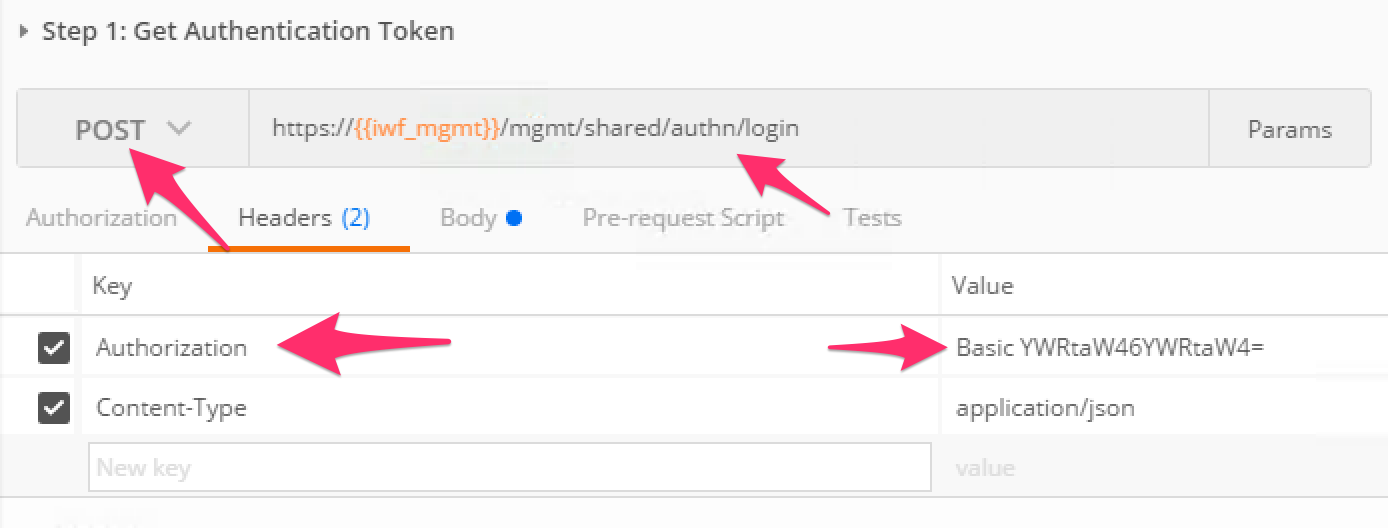
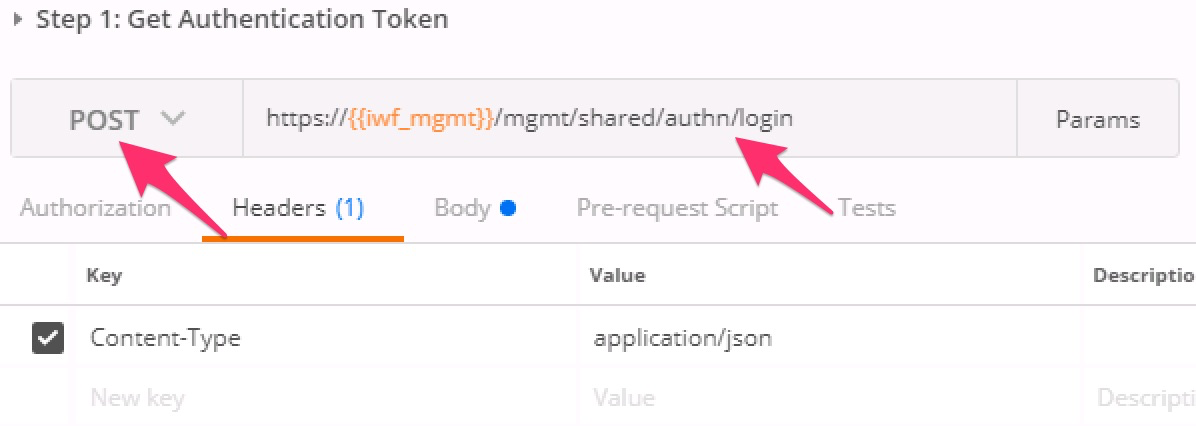
Minor updates to modules 2-5
Lab 2.1, task 1, step 2
Lab 3.1, task 1, intro
Lab 3.2, task 3, step 1 & 5
Lab 3.3, intro
Lab 4.1, intro
Lab 4.2, task 1, step 8
Lab 4.2, task 2 step 3
Lab 4.3, intro
Lab 5.3, task 1, step 1
Lab 5.6, task 1, step 1

diff --git a/docs/class1/module4/lab3.rst b/docs/class1/module4/lab3.rst
@@ -8,7 +8,7 @@
 Lab |labmodule|\.\ |labnum| – f5-newman-wrapper Introduction
 ------------------------------------------------------------
 
-As shown in the previous lab we can use manually execute collections and folders
+As shown in the previous lab we can manually execute collections and folders
 using the Postman GUI to achieve some end result on BIG-IP devices.  While this
 capability is important in a test/prototyping phase we need to ensure we can
 execute these manual steps as an automated process.
@@ -24,7 +24,7 @@ JSON formatted input file.  In this lab we will introduce the file format.
 Task 1 - Explore the workflow JSON format
 ^^^^^^^^^^^^^^^^^^^^^^^^^^^^^^^^^^^^^^^^^
 
-To introduce the format of the workflow file we will use an example that 
+To introduce the format of the workflow file we will use an example that
 recreates the simple workflow we executed manually in the previous lab.  We
 will explore the file in sections followed by showing the whole file.
 
@@ -67,7 +67,7 @@ attrbutes are explained in the table below.
     * - **Attribute**
       - **Description**
     * - ``globalEnvVars``
-      - This is the file that contains the Global environment variables used 
+      - This is the file that contains the Global environment variables used
         by Newman.  This file is generated by the f5-postman-workflows build
         scripts and contains the same global variables as we saw in the previous
         lab that installed the framework into the Postman GUI client
@@ -89,9 +89,9 @@ attrbutes are explained in the table below.
 Define Input Variables
 ~~~~~~~~~~~~~~~~~~~~~~
 
-This section specifies the Input Variables for the workflow.  The name 
-``globalVars`` conveys that the variables defined here will be present for 
-each request in the defined workflow (the global scope from a workflow 
+This section specifies the Input Variables for the workflow.  The name
+``globalVars`` conveys that the variables defined here will be present for
+each request in the defined workflow (the global scope from a workflow
 perspective).  Variables can also be defined within each item in a workflow
 (the local scope from a item perspective).  In the case of a global and local
 variable that is named identically, the local scope variable will take
@@ -113,7 +113,7 @@ precendence.
 Define the Workflow Collections and Ordering
 ~~~~~~~~~~~~~~~~~~~~~~~~~~~~~~~~~~~~~~~~~~~~
 
-This section defines the workflow and collections and folders that it is 
+This section defines the workflow and collections and folders that it is
 comprised of.  The ``workflow`` attribute is an ordered array that contains
 objects defining each collecion and folder to run.
 
@@ -152,9 +152,9 @@ Lets look at the item in the workflow that performs authentication:
                            }
                    }
 
-The ``name`` attribute specifies the name for this item.  The ``options`` 
+The ``name`` attribute specifies the name for this item.  The ``options``
 object specifies the parameters used to execute this particular item.  In our
-case the ``collection`` attribute refers to the file containing the 
+case the ``collection`` attribute refers to the file containing the
 ``BIGIP_API_Authentication`` collection.  The ``folder`` attribute specifies
 the name of the folder to run in the collection.
 
@@ -202,5 +202,3 @@ Final Workflow JSON
                    }
            ]
    }
-
-

diff --git a/docs/class1/module3/lab3.rst b/docs/class1/module3/lab3.rst
@@ -9,7 +9,7 @@ Lab |labmodule|\.\ |labnum| – Connect to f5-super-netops-container
 ------------------------------------------------------------------
 
 In the previous lab we started the container image and were presented with a
-root command prompt.  In order to support use the container and it's associated
+root command prompt.  In order to support use the container and its associated
 tools properly you connect via SSH and/or HTTP.
 
 .. _lab3_3_1:
@@ -17,8 +17,8 @@ tools properly you connect via SSH and/or HTTP.
 Task 1 – Connect via SSH
 ~~~~~~~~~~~~~~~~~~~~~~~~
 
-To connect to the image via SSH we must use the published port specified in the 
-``docker run`` command.  To review the command used to start the container was:
+To connect to the image via SSH we must use the published port specified in the
+``docker run`` command.  To review, the command used to start the container was:
 
 ``docker run -p 8080:80 -p 2222:22 -it f5devcentral/f5-super-netops-container:base``
 
@@ -30,7 +30,7 @@ Docker host.  In the case of the SSH service the following mapping applies:
 .. NOTE:: If you are using an F5 provided lab environment please use the SSH
    client and connect to the 'f5-super-netops-container SSH' item
 
-Additionally the container includes the ``snops`` user with a password of 
+Additionally the container includes the ``snops`` user with a password of
 ``default``.  To connect to the container execute the following command
 or it's OS-specific equivalent:
 
@@ -55,7 +55,7 @@ Example output:
 
    $ ssh -p 2222 snops@localhost
    Warning: Permanently added '[localhost]:2222' (ECDSA) to the list of known hosts.
-   snops@localhost's password: 
+   snops@localhost's password:
                                    .----------.
                                   /          /
                                  /   ______.'
@@ -75,40 +75,40 @@ Example output:
    |___/\__,_| .__/ \___|_|           |_| |_|\___|\__\___/| .__/|___/
              | |                                          | |
              |_|                                          |_|
-   
+
    Welcome to the f5-super-netops-container.  This image has the following
    services running:
-   
+
     SSH  tcp/22
     HTTP tcp/80
-   
+
    To access these services you may need to remap ports on your host to the
    local container using the command:
-   
+
     docker run -p 8080:80 -p 2222:22 -it f5devcentral/f5-super-netops-container:base
-   
+
    From the HOST perspective, this results in:
-   
+
     localhost:2222 -> f5-super-netops-container:22
     localho   st:8080 -> f5-super-netops-container:80
-   
+
    You can then connect using the following:
-   
+
     HTTP: http://localhost:8080
     SSH:  ssh -p 2222 snops@localhost
-   
+
    Default Credentials:
-   
+
     snops/default
     root/default
-   
+
    Go forth and automate!
-   [snops@f5-super-netops] [~] $ 
+   [snops@f5-super-netops] [~] $
 
 Task 2 – Connect via HTTP
 ~~~~~~~~~~~~~~~~~~~~~~~~~
 
-To connect to the image via HTTP we must use the published port specified in the 
+To connect to the image via HTTP we must use the published port specified in the
 ``docker run`` command.  To review the command used to start the container was:
 
 ``docker run -p 8080:80 -p 2222:22 -it f5devcentral/f5-super-netops-container:base``

diff --git a/docs/class1/module3/lab2.rst b/docs/class1/module3/lab2.rst
@@ -29,19 +29,19 @@ Perform the following steps to complete this task:
 
       $ docker pull f5devcentral/f5-super-netops-container:base
       base: Pulling from f5devcentral/f5-super-netops-container
-      cfc728c1c558: Pull complete 
-      d87c258a5fa6: Pull complete 
-      c65d1b487eef: Pull complete 
-      8dbc9686aafd: Pull complete 
-      8780a91a51b1: Pull complete 
-      adf738b585dc: Pull complete 
-      03b3481bc590: Pull complete 
-      8fc57fb32b1a: Pull complete 
-      8f73f7c22240: Pull complete 
-      7d94bd4c05e6: Pull complete 
-      a0b407bf28b5: Pull complete 
-      b97bd4f3c99d: Pull complete 
-      f37519ea449c: Pull complete 
+      cfc728c1c558: Pull complete
+      d87c258a5fa6: Pull complete
+      c65d1b487eef: Pull complete
+      8dbc9686aafd: Pull complete
+      8780a91a51b1: Pull complete
+      adf738b585dc: Pull complete
+      03b3481bc590: Pull complete
+      8fc57fb32b1a: Pull complete
+      8f73f7c22240: Pull complete
+      7d94bd4c05e6: Pull complete
+      a0b407bf28b5: Pull complete
+      b97bd4f3c99d: Pull complete
+      f37519ea449c: Pull complete
       Digest: sha256:20f501b4c46948d3e69ffd7793cbbf08ac18da5f89c6665f36af10bc7c2a89b4
       Status: Downloaded newer image for f5devcentral/f5-super-netops-container:base
 
@@ -68,7 +68,7 @@ to port ``80`` in the container.
 
 The ``-it`` option will make the session interactive and allocate a pseudo-TTY
 
-The ``f5devcentral/f5-super-netops-container:base`` option is the name 
+The ``f5devcentral/f5-super-netops-container:base`` option is the name
 associated with the image we obtained in Task 1.
 
 Perform the following steps to complete this task:
@@ -165,7 +165,7 @@ Perform the following steps to complete this task:
 
       Go forth and automate!
 
-      (you can now detach by using Ctrl+P+Q)
+      (you can now detach by using Ctrl+p+q)
 
       [root@f5-super-netops] [/] #
 
@@ -182,7 +182,7 @@ explained in the next lab.
 Detach the Container
 ^^^^^^^^^^^^^^^^^^^^
 
-#. Enter ``Ctrl+P+Q`` in the running TTY.
+#. Enter ``Ctrl+p+q`` in the running TTY.
 
    Example output:
 
@@ -190,7 +190,7 @@ Detach the Container
 
       [root@f5-super-netops] [/] #
       [root@f5-super-netops] [/] #
-      [root@f5-super-netops] [/] # <enter Ctrl+P+Q>
+      [root@f5-super-netops] [/] # <enter Ctrl+p+q>
       hostname:~ user$
 
 #. Verify the container is still running by entering ``docker ps``
@@ -222,4 +222,4 @@ Re-attach the Container
    f5devcentral/f5-super-netops-container:base image.
 #. Execute ``docker attach <container_id>``
 #. You may have to hit ``<Enter>`` to display the command prompt
-#. Detach the container again by entering ``<Ctrl+P+Q>``
+#. Detach the container again by entering ``<Ctrl+p+q>``

diff --git a/docs/class1/module4/lab1.rst b/docs/class1/module4/lab1.rst
@@ -14,19 +14,19 @@ framework into the Postman REST Client.
 Task 1 - Import the f5-postman-workflows Postman Collection
 ^^^^^^^^^^^^^^^^^^^^^^^^^^^^^^^^^^^^^^^^^^^^^^^^^^^^^^^^^^^
 
-In this task you will Import a Postman Collection that contains Installation
-helpers, Examples and a automated Test Framework.  The collection is installed
+In this task you will import a Postman collection that contains installation
+helpers, Examples and a automated test framework.  The collection is installed
 from the f5-postman-workflows GitHub repository.
 
 Perform the following steps to complete this task:
 
-#. Open the Postman Client on your jumphost by clicking the |image8| icon.
+#. Open the Postman Client on your jumphost by clicking the |image8| icon
 #. Click the 'Import' button in the top left of the Postman window
 #. Click the 'Import from Link' tab.  Paste the following URL into the
    text box and click 'Import'
 
    ``https://raw.githubusercontent.com/0xHiteshPatel/f5-postman-workflows/master/F5_Postman_Workflows.postman_collection.json``
-#. You should now see a collection named 'F5 Postman Workflows' in your
+#. You should now see a collection named 'F5_Postman_Workflows' in your
    Postman Collections sidebar
 
 Task 2 - Install f5-postman-workflows into your Postman Client

diff --git a/docs/class1/module5/lab3.rst b/docs/class1/module5/lab3.rst
@@ -18,7 +18,7 @@ attribute, greatly expanding it’s potential use cases.
 Task 1 – Review update\_pool.py
 ~~~~~~~~~~~~~~~~~~~~~~~~~~~~~~~
 
-#. Open update\_pool.py in Notepad++
+#. Open ``update\_pool.py`` in Notepad++
 
 #. We will review the code. For brevity we have removed lines that are
    common with previous examples:
@@ -67,13 +67,13 @@ update() method.
    pp.pprint("New: %s=%s" % (args.attribute, getattr(pool, args.attribute)))
 
 The first line refreshes the data in the object from the BIG-IP
-device. The second line prints this refreshed information to the 
+device. The second line prints this refreshed information to the
 console so the user can verify the update completed successfully.
 
 Task 2 – Run update\_pool.py
 ~~~~~~~~~~~~~~~~~~~~~~~~~~~~
 
-#. In the command prompt type 
+#. In the command prompt type
    ``python update_pool.py 10.1.1.4 test_pool loadBalancingMode least-connections-member``
    and examine the output:
 

diff --git a/docs/class1/module4/lab2.rst b/docs/class1/module4/lab2.rst
@@ -70,7 +70,7 @@ Execute the following steps to complete this task:
    authentication.
 #. Close the window by clicking 'Cancel'
 #. Repeat the steps above and explore the ``BIGIP_Operational_Workflows``
-   collection, specifically the ``4A_Get_BIGIP_Version`` folder
+   collection, specifically the ``4A_Get_BIGIP_Version`` folder.
 
 Task 2 - Manually Chain Folders into a Workflow
 ^^^^^^^^^^^^^^^^^^^^^^^^^^^^^^^^^^^^^^^^^^^^^^^
@@ -114,7 +114,7 @@ the folders.
 
    |image85|
 
-   These tests items and there corresponding actions (populating a variable
+   These Tests items and there corresponding actions (populating a variable
    in this case) are generated by the f5-postman-workflows framework.
 #. Examine your Postman Environment variables and confirm that the
    ``bigip_token`` variable is present and populated.

diff --git a/docs/class1/module3/lab1.rst b/docs/class1/module3/lab1.rst
@@ -21,10 +21,10 @@ Task 1 – Install Docker CE
 Please follow the instructions at https://docs.docker.com/engine/installation/
 to install Docker CE.
 
-Once you have completed installed and successfully run the ``hello_world``
+Once you have completed installed and successfully run the ``hello-world``
 test you can continue to the next lab.
 
-To test your setup with the ``hello_world`` container, you just need to run the
+To test your setup with the ``hello-world`` container, you just need to run the
 following command
 
 ``docker run hello-world``
@@ -74,5 +74,3 @@ Example output:
    You can issue the following commands in that case (this will stop ALL your container
    instances):
    ``sudo docker stop $(docker ps -aq)``
-
-

diff --git a/docs/class1/module2/lab1.rst b/docs/class1/module2/lab1.rst
@@ -30,8 +30,7 @@ Perform the following steps to complete this task:
    Postman Collection
 
 #. Notice that we are sending a POST request to the
-   ``/mgmt/shared/authn/login`` endpoint. Additionally, BASIC
-   Authentication is required on the initial token request:
+   ``/mgmt/shared/authn/login`` endpoint.
 
    |image41|
 
